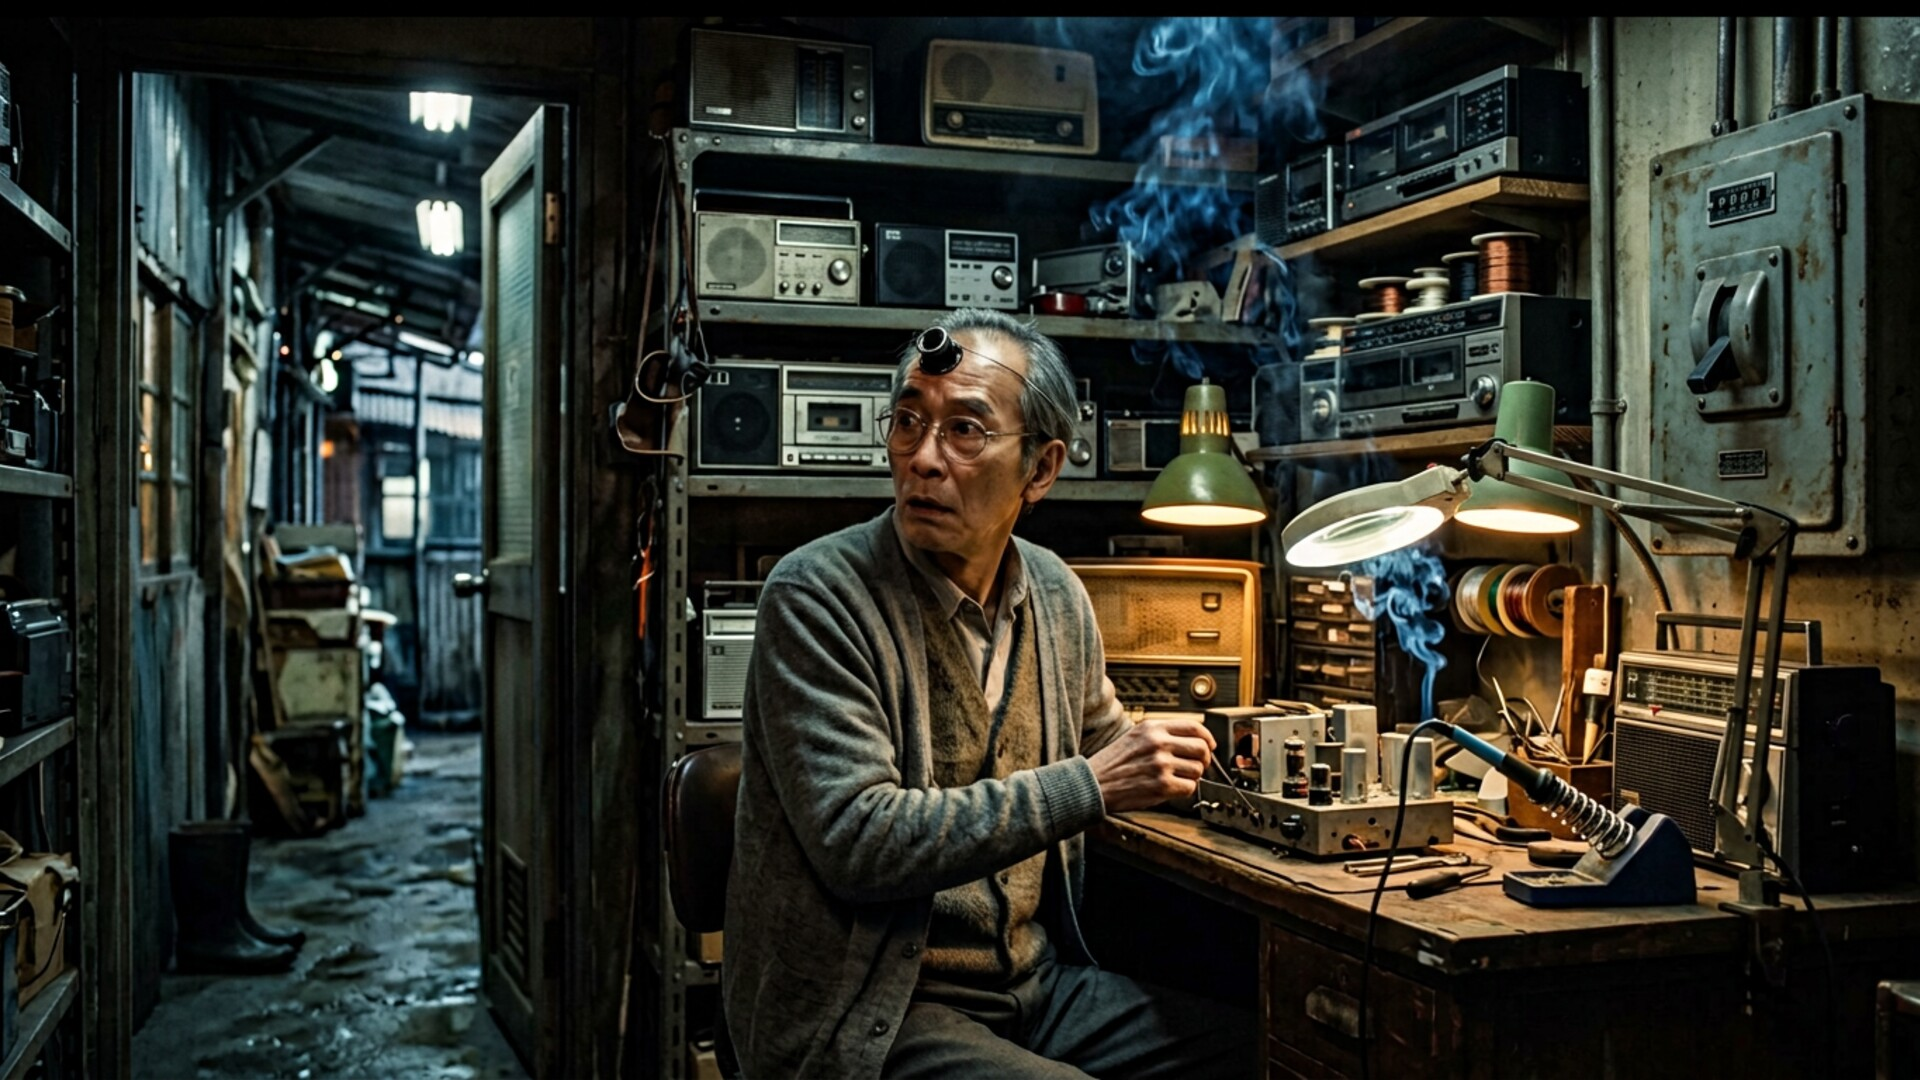
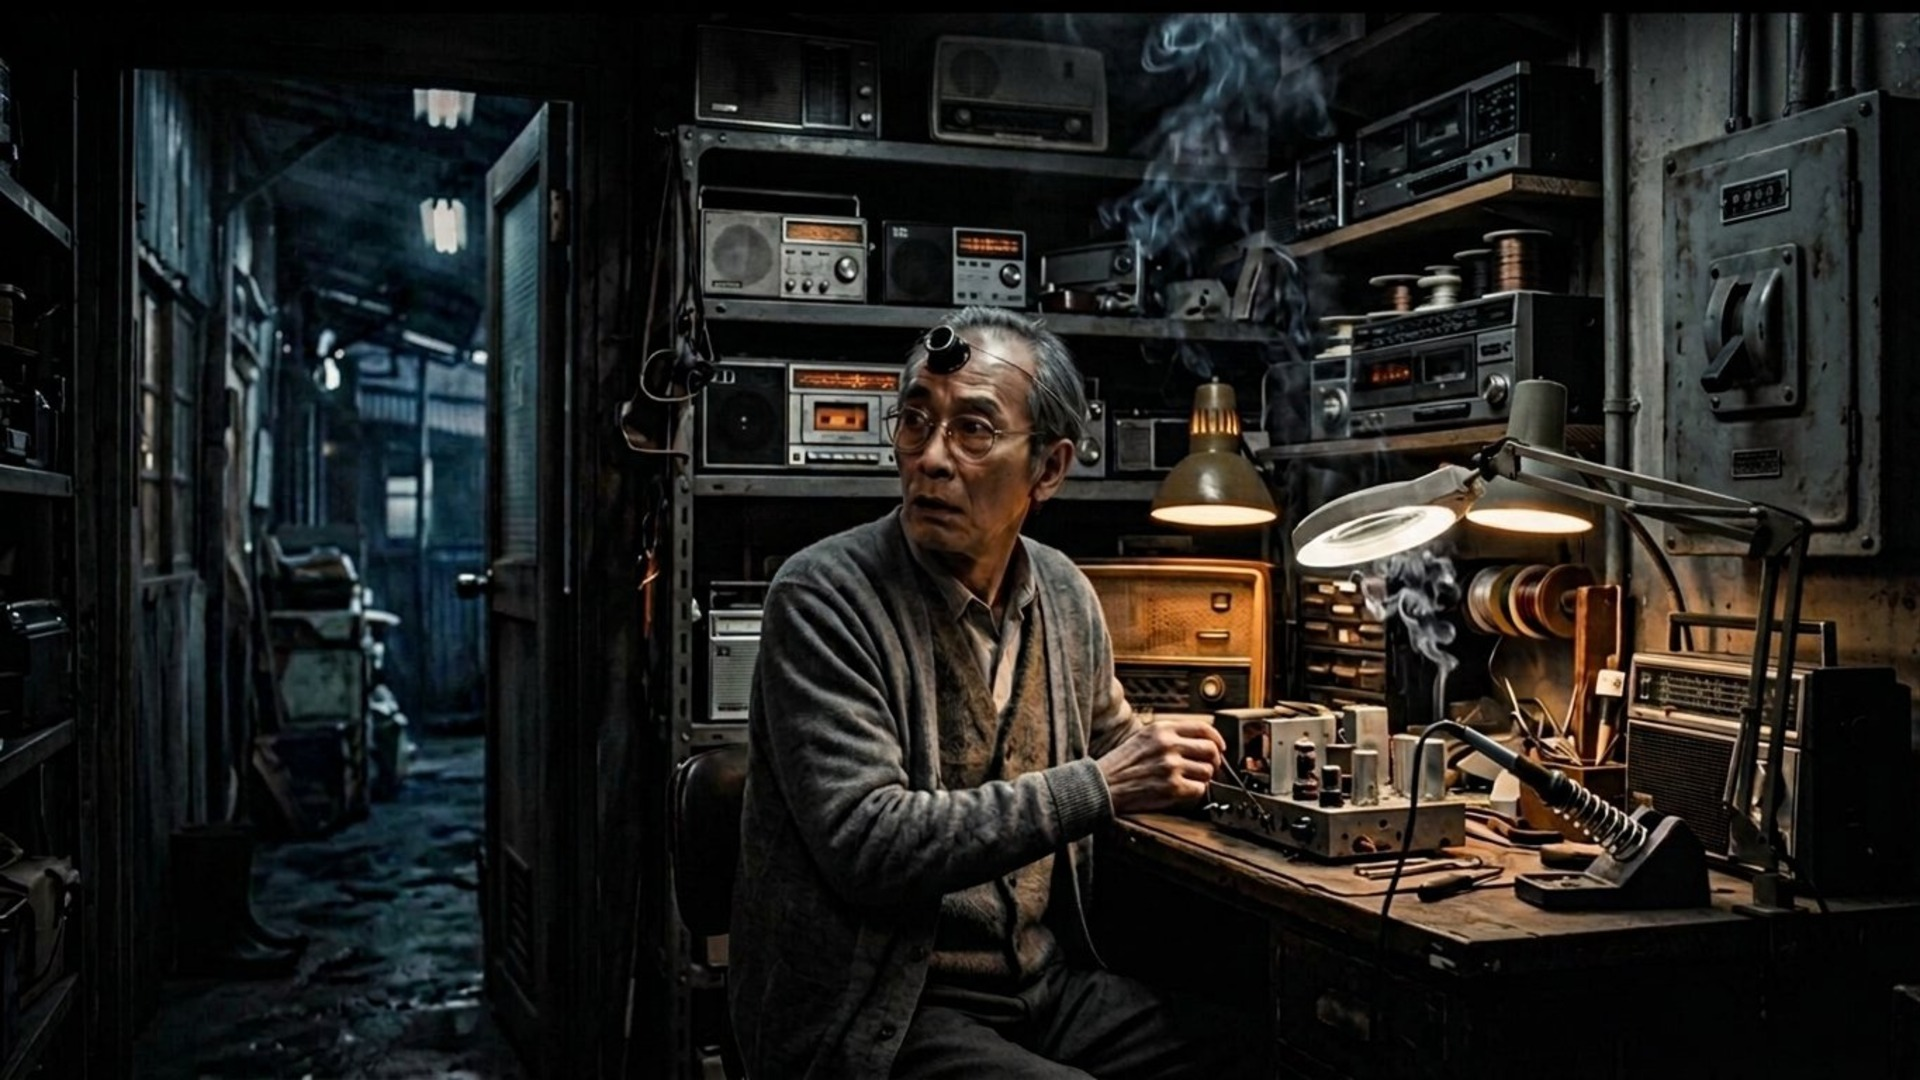
Neonoire: the repairman closes the Hive look queue
s87/124-the-repairman.jpg retaken: the saturated teal grade and blue cast
are gone for desaturated near-monochrome night — one small pool at the
bench lamp, the passage beyond dark and hazy. The repairman is held exactly
to sheets/repairman.jpg (passed alongside as the character reference), and
the radios, the grey fuse box and the smoking soldering iron are unchanged;
the smoke drifts pale grey in the lamplight. Green dominance falls
0.019 -> 0.003 by pixel statistics.

hiveLookRetakes and hiveNextPassPlan are now empty: all thirty-four Hive
frames are on the canon and the new look. Review sheet:
reviews/hive-retakes-pass-4.jpg (before | after).

diff --git a/docs/neonoire/passes/hive-canon.md b/docs/neonoire/passes/hive-canon.md
@@ -88,12 +88,13 @@ Review sheet: `public/images/neonoire/reviews/hive-retakes-pass-2.jpg` — the c
 
 **Script lines kept in step (small director's edits, carried in the draft `Neonoire (3).fountain` and its regenerated pages):** scene 15 gains the tower stepping down at the back to a low rear wing pressed against the concrete railway viaduct, its roof level with the tracks, old neon signs hanging dead on its face, and the Hive sitting in its own haze of steam and kitchen smoke even in daylight; scene 90 opens on the flat roof of the low rear wing, four storeys up, the tower behind; scenes 16 and 55 each gain one line of daylight coming in thin cold shafts through the steam. The same commit's Kanda backstreet change — scene 1, the sedan blocks the alley mouth — is documented in `kanda-alley-layout.md`.
 
-## The retake queue — one frame left (the repairman)
+## The queue pass — closed (all eleven, 29 September 2026)
 
-The queue pass ran the same day: ten of the eleven look-only frames retaken against the canon
-sheets, one call each, light and atmosphere only — every figure, face, wardrobe, prop and
-composition held to its previous frame, the matching canon sheet passed alongside as the set
-reference. In code: `hiveRetakenQueue` (10, installed).
+The queue pass ran the same day: all eleven look-only frames retaken against the canon sheets,
+one call each, light and atmosphere only — every figure, face, wardrobe, prop and composition
+held to its previous frame, the matching canon sheet passed alongside as the set reference (the
+repairman also got `sheets/repairman.jpg` as the character reference). In code: `hiveRetakenQueue`
+(11, installed). Nothing remains queued: `hiveLookRetakes` and `hiveNextPassPlan` are empty.
 
 | Shot | Frame | Was | Status |
 | --- | --- | --- | --- |
@@ -108,20 +109,23 @@ reference. In code: `hiveRetakenQueue` (10, installed).
 | 227 | `s58/225-bring-her.jpg` | fluorescent and cool grade | **RETAKEN + INSTALLED** — one amber bulb and steam; the charcoal-coat motif and the too-much money held |
 | 123 | `s86/121-the-shutter.jpg` | bright fluorescent at the counter | **RETAKEN + INSTALLED** — the counter's one amber bulb in the dark, the tube unlit; Kaneko's shutter and the six stools held |
 
-**Still queued (1):**
+**The closing frame:**
 
-| Shot | Frame | Problem |
-| --- | --- | --- |
-| 126 | `s87/124-the-repairman.jpg` | saturated teal grade, blue smoke; desaturated near-monochrome. Keep the repairman exactly as `sheets/repairman.jpg` holds him |
+| Shot | Frame | Was | Status |
+| --- | --- | --- | --- |
+| 126 | `s87/124-the-repairman.jpg` | saturated teal grade, blue smoke | **RETAKEN + INSTALLED** — desaturated near-monochrome night, one small pool at the bench lamp; the repairman held exactly to `sheets/repairman.jpg`, the radios, the fuse box and the smoking soldering iron unchanged. Green dominance falls 0.019 → 0.003 by pixel statistics |
 
-Review sheet: `public/images/neonoire/reviews/hive-retakes-pass-3.jpg` — the ten installed frames in
-shot order. Caveats: the frames are verified at 1920×1080 and read back in palette statistics
-(the four s97 frames shift to dim grey-ochre daylight at bright 0.34–0.40, the counter frames to
-dim warm amber, the shutter dark), but the session's image viewer is unreliable — give the review
-sheet a full-size look before the repairman pass. The counter frames' boards still describe the
-fluorescent tube in the blocking text where the canon rule now unlights it; the tube remains in
-the room as a fixture. Scene 86's script beat ("she turns off the fluorescent tube") plays on the
-switch; the frame holds the one-bulb look the queue asked for.
+Review sheets: `public/images/neonoire/reviews/hive-retakes-pass-3.jpg` — the ten queue frames in
+shot order — and `public/images/neonoire/reviews/hive-retakes-pass-4.jpg` — the repairman before
+and after, side by side. Caveats: every frame is verified at 1920×1080 and read back in palette
+statistics (the four s97 frames shift to dim grey-ochre daylight at bright 0.34–0.40, the counter
+frames to dim warm amber, the shutter dark, the repairman's teal gone), but the session's image
+viewer is unreliable — give the review sheets a full-size look and sign the pass off in person.
+The counter frames' boards still describe the fluorescent tube in the blocking text where the
+canon rule now unlights it; the tube remains in the room as a fixture. Scene 86's script beat
+("she turns off the fluorescent tube") plays on the switch; the frame holds the one-bulb look the
+queue asked for. The repairman's smoke is the soldering iron's (the board's "still smoking"),
+kept pale grey in the lamplight rather than blue.
 
 ### Outside the Hive — untouched
 
@@ -129,6 +133,6 @@ s91 (the railway maintenance walkway is railway ground), s22 (the brick arch cou
 
 ## Also in this pass
 
-- `scripts/neonoire/hive-canon-look.mjs` exports `hiveCanon`, `hiveCanonNight`, `hiveCanonDay`, `hiveCanonRules`, `hiveCanonNegative`, the ordered `hiveCanonSheets` (six prompts, install paths, reference chains), `hiveRetakenExteriors` (7, the retaken wrong-building tier), `hiveRetakenLook` (13, the look retake pass with model fixes flagged), `hiveRetakenOptional` (5, the judged optional tier), `hiveRetakenQueue` (10, the queue pass), `hiveLookRetakes` (1 still queued: the repairman), `hiveNextPassPlan` (1, run order), `hiveCanonScenes` and the `hiveCanonLook` note for the retake pass to embed.
+- `scripts/neonoire/hive-canon-look.mjs` exports `hiveCanon`, `hiveCanonNight`, `hiveCanonDay`, `hiveCanonRules`, `hiveCanonNegative`, the ordered `hiveCanonSheets` (six prompts, install paths, reference chains), `hiveRetakenExteriors` (7, the retaken wrong-building tier), `hiveRetakenLook` (13, the look retake pass with model fixes flagged), `hiveRetakenOptional` (5, the judged optional tier), `hiveRetakenQueue` (11, the queue pass — closed), `hiveLookRetakes` (0 — queue closed), `hiveNextPassPlan` (0), `hiveCanonScenes` and the `hiveCanonLook` note for the retake pass to embed.
 - The Hive look files (`hive-look`, `hive-first-look`, `hive-morning-look`, `escape-look`, `ending-look`'s demolition, `confrontation-look`'s storeroom) now defer to the canon for lighting and atmosphere and carry no other change; every verify-locked continuity substring survives.
 - `scripts/verify-neonoire.mjs` checks the six sheets and every retaken tier at 1920×1080, that each queued frame exists and queues once with a day or night tag, that the done and pending tiers cover thirty-four frames exactly, and that the canon text, rules and negative terms travel with the look file.

diff --git a/docs/neonoire/handoff.md b/docs/neonoire/handoff.md
@@ -2,7 +2,7 @@
 
 ## Current state — 29 September 2026 (Kanda backstreet layout)
 
-The cold-open lane is a pedestrian alley and no longer takes the sedan: **the sedan stops across the alley mouth** with its high beams down the lane and the men walk in and out on foot. Fixed layout: car end, the old man, the barbershop doorway and vending machine, the bar sign at the far end; Mara runs away from the car. Script (scene 1) and the board are updated, and the pass is executed: the layout sheet `sheets/kanda-alley-layout.jpg` is generated from the pass doc's brief, and shots 8, 10, 12, 13, 17 and 18 are retaken to the fixed layout at their asset paths (RETAKE PENDING notes closed; scene 13's 27 September backing-out note superseded). Review sheets: `reviews/kanda-alley-retakes.jpg` (new) beside `reviews/kanda-alley-pending.jpg` (the old blocking). Full write-up, per-shot holds and caveats in `docs/neonoire/passes/kanda-alley-layout.md`. Remaining retake queue: one Hive frame — `s87/124-the-repairman.jpg`, the repairman (keep him exactly as `sheets/repairman.jpg` holds him), queued in `hiveNextPassPlan`; the rest of scene 1 stays on its previous boarding (see the kanda ledger caveat). The Hive queue pass (ten of eleven) is recorded in `passes/hive-canon.md`, review sheet `reviews/hive-retakes-pass-3.jpg`.
+The cold-open lane is a pedestrian alley and no longer takes the sedan: **the sedan stops across the alley mouth** with its high beams down the lane and the men walk in and out on foot. Fixed layout: car end, the old man, the barbershop doorway and vending machine, the bar sign at the far end; Mara runs away from the car. Script (scene 1) and the board are updated, and the pass is executed: the layout sheet `sheets/kanda-alley-layout.jpg` is generated from the pass doc's brief, and shots 8, 10, 12, 13, 17 and 18 are retaken to the fixed layout at their asset paths (RETAKE PENDING notes closed; scene 13's 27 September backing-out note superseded). Review sheets: `reviews/kanda-alley-retakes.jpg` (new) beside `reviews/kanda-alley-pending.jpg` (the old blocking). Full write-up, per-shot holds and caveats in `docs/neonoire/passes/kanda-alley-layout.md`. Remaining retake queue: **empty** — the repairman (`s87/124-the-repairman.jpg`) closed it: desaturated near-monochrome night, one small pool at the bench lamp, the repairman held exactly to `sheets/repairman.jpg`, the smoking soldering iron unchanged. All thirty-four Hive frames (plus the two judged keeps) are now on the canon and the new look; `hiveLookRetakes` and `hiveNextPassPlan` are empty. Recorded in `passes/hive-canon.md`; review sheets `reviews/hive-retakes-pass-3.jpg` (the queue ten) and `reviews/hive-retakes-pass-4.jpg` (the repairman before/after) — full-size sign-off of all four review sheets is the one outstanding item. The rest of scene 1 stays on its previous boarding (see the kanda ledger caveat).
 
 ## Current state — 29 September 2026 (the Hive retakes: the new-look pass)
 

diff --git a/docs/neonoire/scenes/n87-radio-repair-shop.md b/docs/neonoire/scenes/n87-radio-repair-shop.md
@@ -21,7 +21,7 @@ LIGHT: Practical night
 TIME: 6
 ID: neonoire-shot-126
 IMAGE: 124-the-repairman.jpg
-NOTE: Shop master. The soldering iron is still smoking.
+NOTE: Shop master. The soldering iron is still smoking. Retake 29 September 2026 — the shop master is rebuilt on the night look: desaturated near-monochrome, one small pool at the bench lamp, the teal grade and blue cast gone; the repairman held exactly to sheets/repairman.jpg, the radios, the fuse box and the smoking soldering iron unchanged.
 
 127. INSERT — 85mm, static, low angle — the main switch.
 His thin old hand, in a grey cardigan cuff, pulls down the fuse box's main switch as the lamp behind him begins to die.
